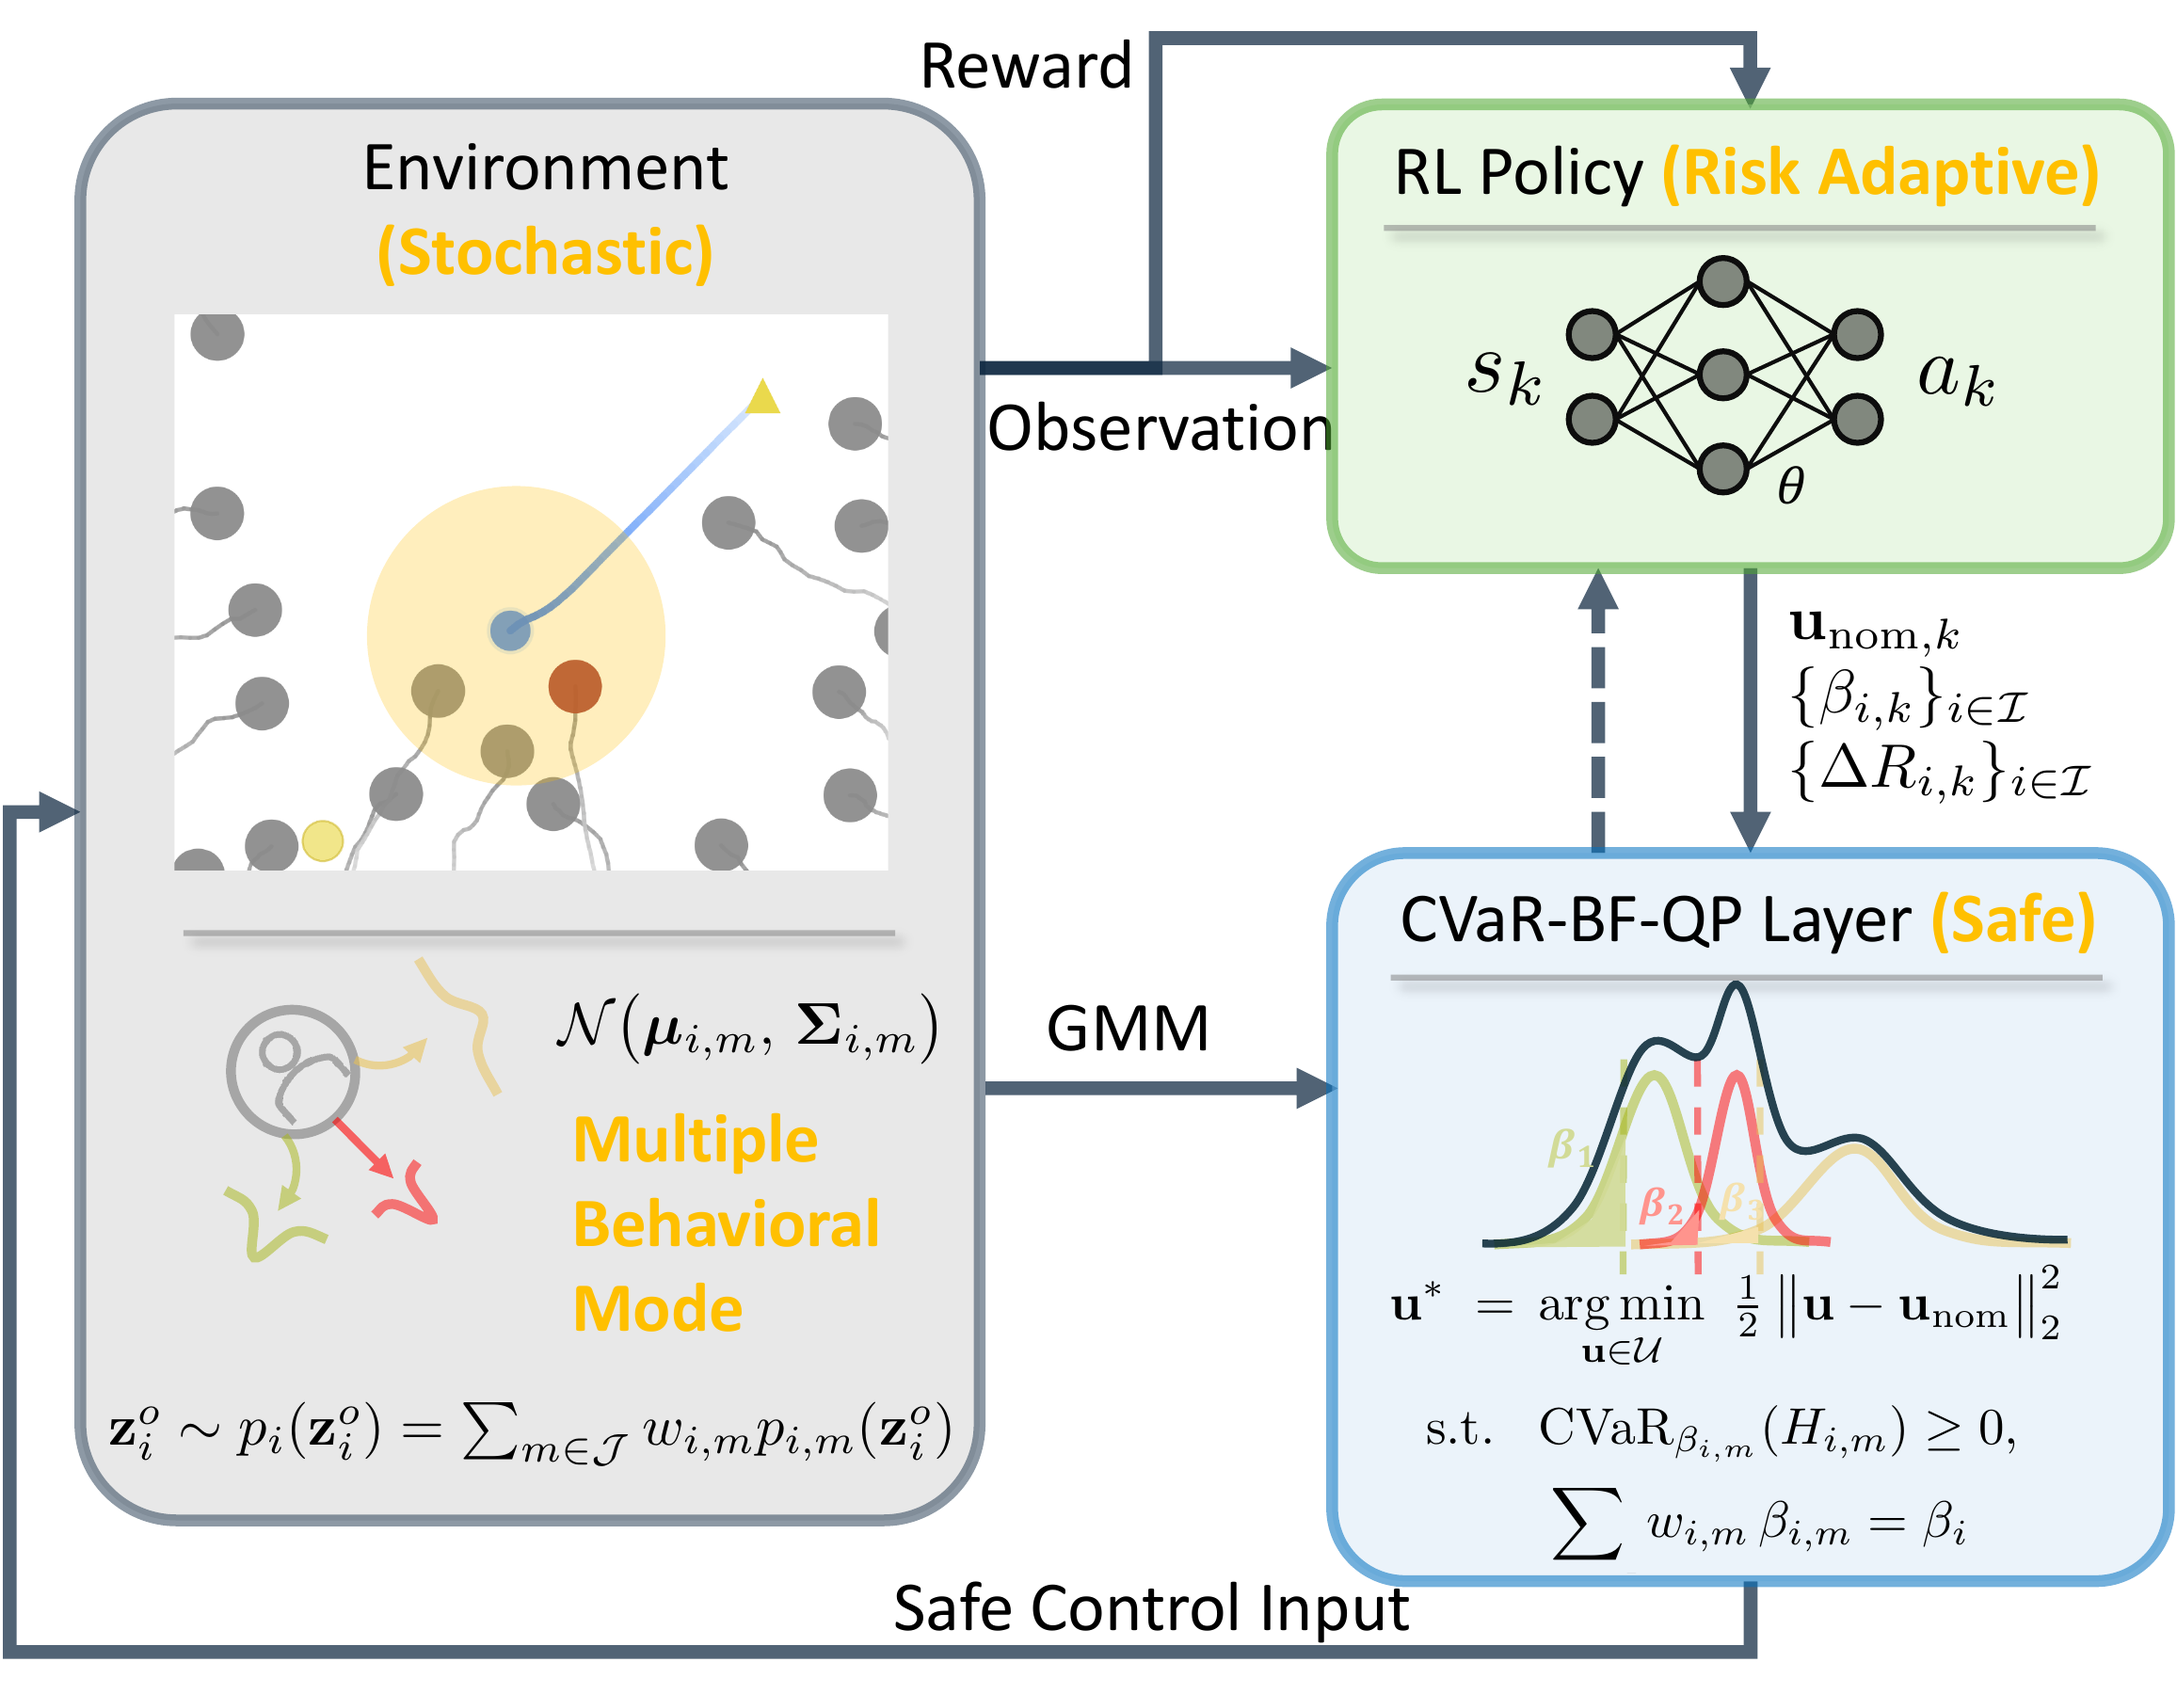
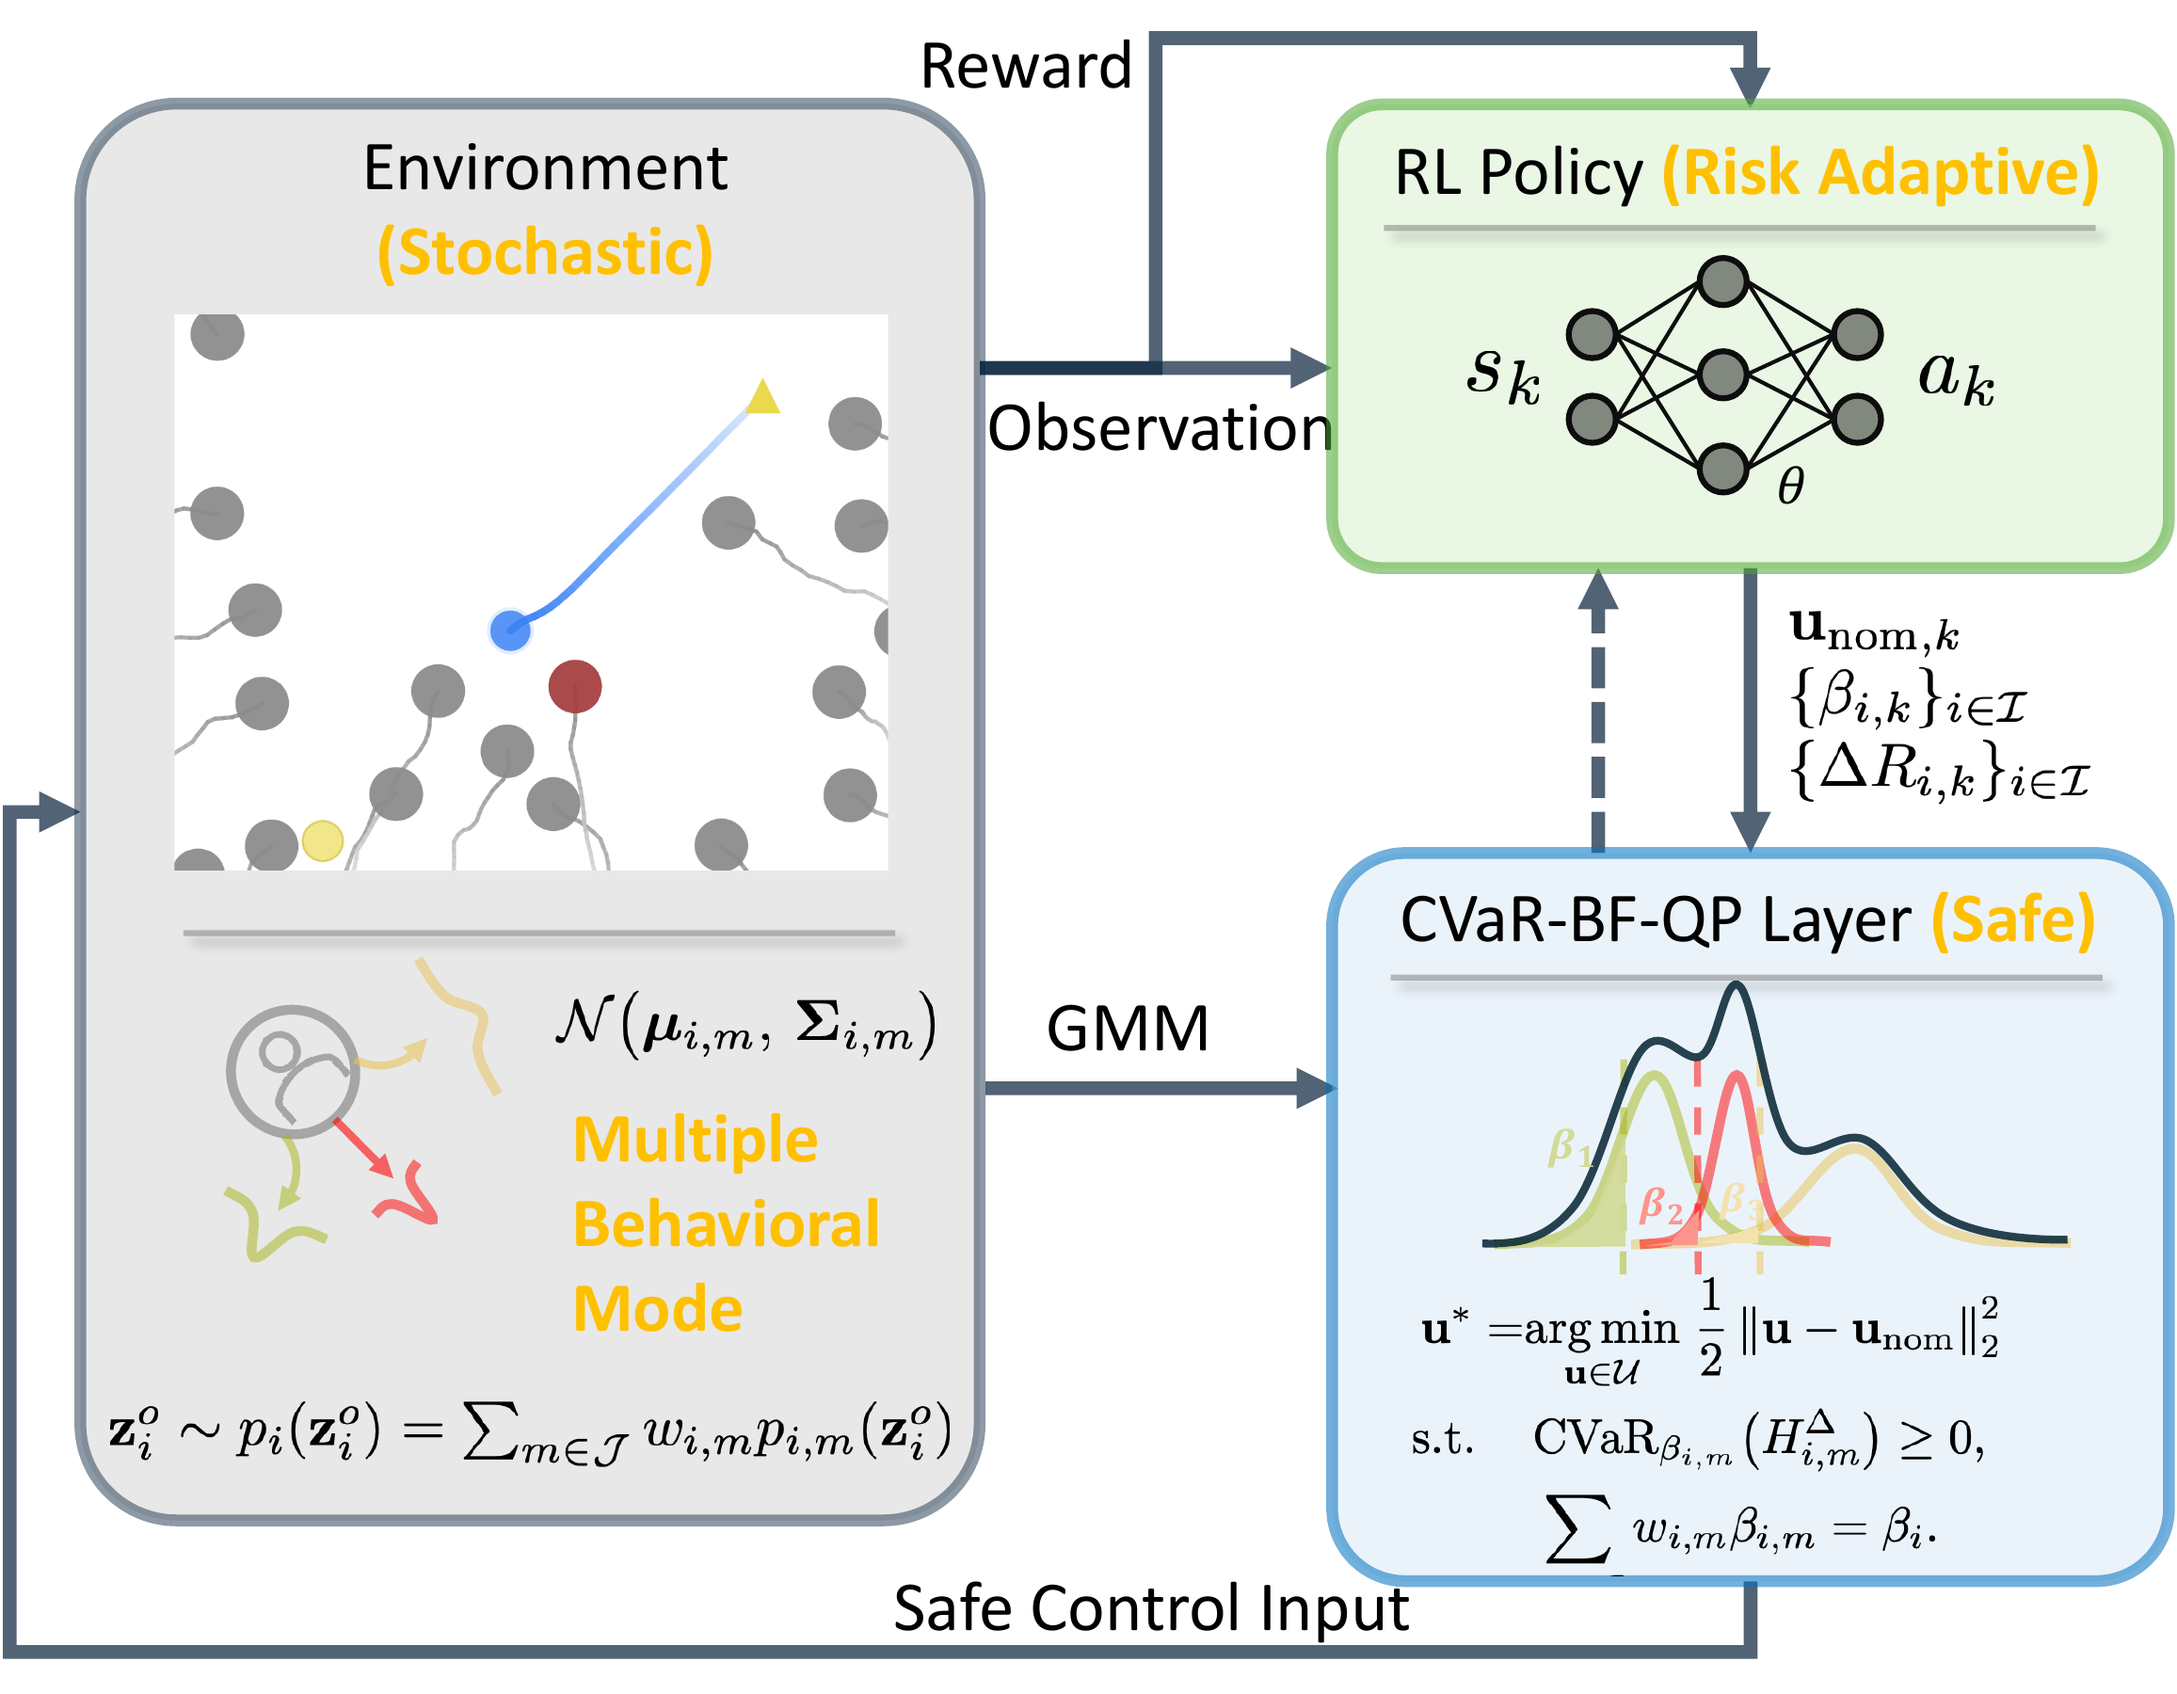
Update method overview figure

diff --git a/index.html b/index.html
@@ -204,7 +204,7 @@
     <div class="columns is-centered">
       <div class="column">
         <div class="content has-text-centered method-overview-card">
-          <img src="./static/images/overview2.png"
+          <img src="./static/images/overview2.png?v=20260728-paper"
                alt="Method Overview Figure"
                class="method-overview-image"
                style="height: auto;" />
